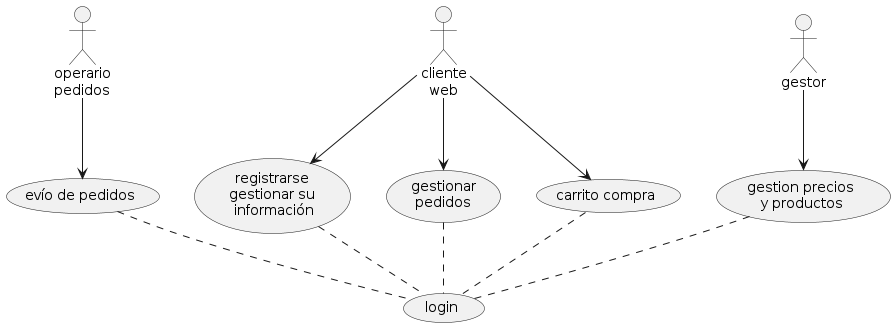
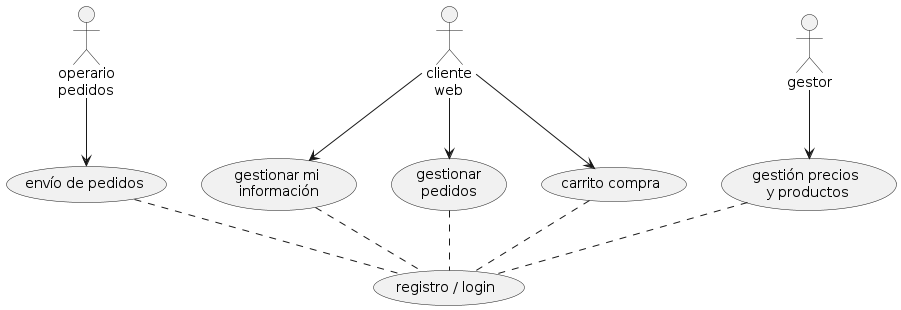
actualizado casos de uso

diff --git a/07-Controladores.md b/07-Controladores.md
@@ -19,8 +19,8 @@ Para completar la aplicación, se definen una serie de end-points que serán com
 
 ### Servicio usuario
 
-RUTA | VERBO | DATOS | COMENTARIOS
------|-------|-------|------------
+  RUTA          |VERBO| DATOS | COMENTARIOS
+----------------|-----|-------|------------
 /usuario/telefonos | GET | Parámetro 1: ID de usuario | Muestra los tel. del usuario que ha hecho login
 /usuario/telefonos/add | GET | Parámetro 1: ID de usuario | Muestra formulario para añadir tel. al usuario que ha hecho login
 /usuario/telefonos/add | POST | Parámetro 1: ID de usuario / body (tel) | Añade tel. al usuario que ha hecho login
@@ -33,8 +33,8 @@ RUTA | VERBO | DATOS | COMENTARIOS
 
 Rutas del servicio para el rol GESTOR:
 
-RUTA | METODO | ROL | Observaciones
------|--------|---------|--------------
+RUTA            | METODO | ROL | Observaciones
+----------------|--------|---------|--------------
 /admin/producto | GET | gestor | Mostrar listado productos
 /admin/producto/create | GET | gestor | Mostrar formulario alta productos
 /admin/producto/create | POST | gestor | Crear en la BBDD el producto
@@ -45,6 +45,8 @@ RUTA | METODO | ROL | Observaciones
 /admin/categoria | GET | gestor | Mostrar listado de categorías
 /admin/categoria/create | GET | gestor | Mostrar formulario alta categoria
 /admin/categoria/create | POST | gestor | Crear reserva en la BBDD
+/admin/categoria/delete | GET | gestor | Mostrar formulario borrar categoria
+/admin/categoria/delete | POST | gestor | Borra categoría de la BBDD
 /admin/categoria/:id/producto | GET | gestor | Mostrar los productos de una categoría
 /admin/categoria/producto | POST | gestor | Mostrar maestro-detalle de categoria para un usuario
 /admin/categoria/producto/:id | GET | gestor | Mostrar categoria para ese producto

diff --git a/04-AnalisisDiseño.md b/04-AnalisisDiseño.md
@@ -34,7 +34,7 @@ usecase (envío de pedidos) as Proc02
 actor : operario \n pedidos : as Operario
 Operario --> Proc02
 
-usecase ( registrarse \n gestionar su \n información) as Proc03
+usecase ( gestionar mi \n información) as Proc03
 usecase (gestionar\n pedidos ) as Proc04
 usecase (carrito compra) as Proc05
 actor : cliente \n   web : as Cliente
@@ -42,7 +42,7 @@ Cliente --> Proc03
 Cliente --> Proc04
 Cliente --> Proc05
 
-usecase ( login ) as Proc06
+usecase ( registro / login ) as Proc06
 
 Proc01 .. Proc06
 Proc02 .. Proc06
@@ -205,6 +205,7 @@ Este diagrama describe la estructura del sistema de gestión de pedidos y produc
 
 ![Diagrama de clases](./out/docs/diagrama-clases/diagrama-clases.png)
 
+> Ahora que hemos terminado de modelar nuestro proceso de negocio en los casos de uso y conocemos las entidades gracias al modelado de clases, pasamos a la siguiente fase: creación de los POJOs (a partir de del diagrama de clases) e identificación de los servicios y end-points de la aplicación Web.
 
 \pagebreak
 
